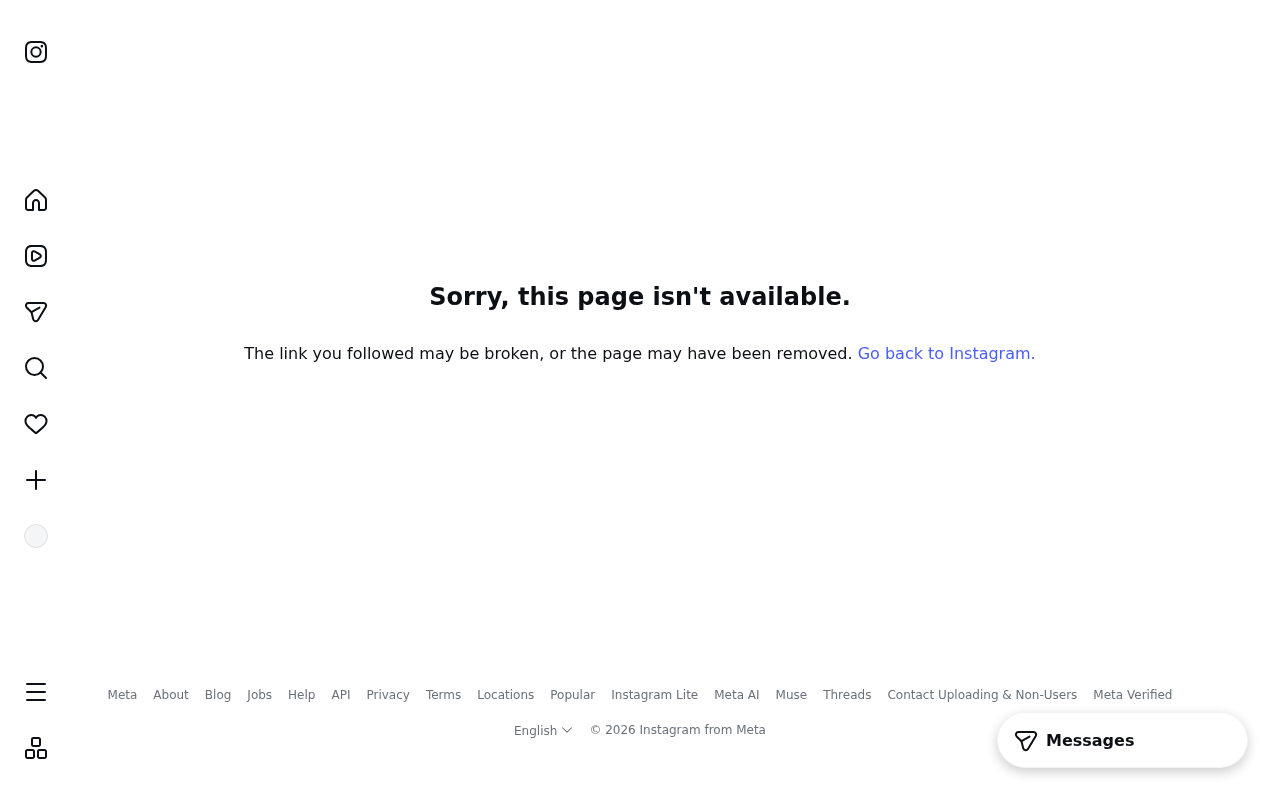
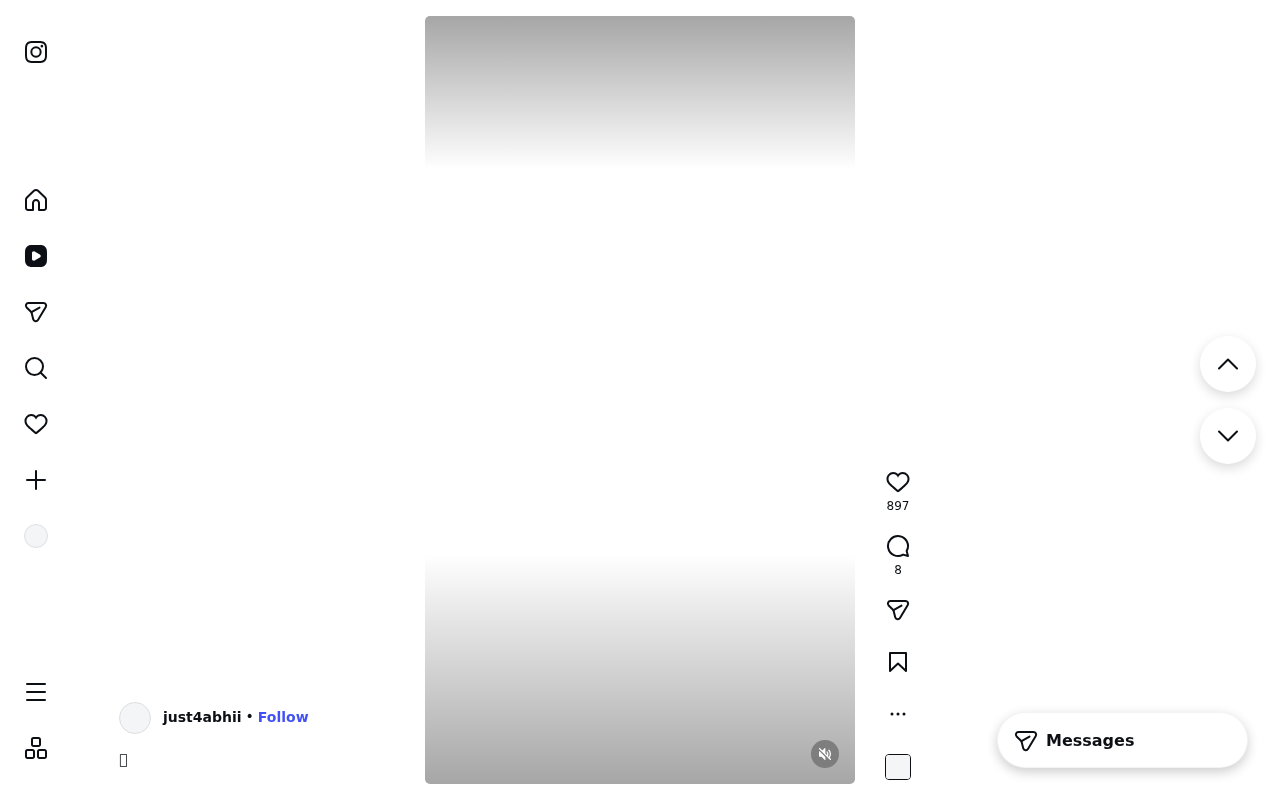
feat: Auto-filter dead accounts and instant auto-switch to healthy pool

diff --git a/server.js b/server.js
@@ -342,18 +342,29 @@ app.all('/api/v2', (req, res) => {
     const service = parseInt(params.service, 10);
     const link = (params.link || '').trim();
     let quantity = parseInt(params.quantity, 10);
-    const comments = (params.comments || params.comment || '').trim();
+    let rawComments = params.comments || params.comment || params.custom_comments || params.custom_comment || '';
+    if (Array.isArray(rawComments)) {
+      rawComments = rawComments.join('\n');
+    }
+    if (typeof rawComments === 'string') {
+      if (rawComments.includes('\\n') && !rawComments.includes('\n')) {
+        rawComments = rawComments.replace(/\\r\\n|\\r|\\n/g, '\n');
+      }
+    }
+    const comments = String(rawComments || '').trim();
 
     if (!link) {
       return res.json({ error: 'link parameter is required' });
     }
 
     let order;
-    if (service === 1 || (!service && comments) || (service !== 2 && comments)) {
+    if (service === 1 || (!service && comments) || (service !== 2 && comments) || String(params.service).toLowerCase().includes('comment')) {
       // SERVICE 1: INSTAGRAM CUSTOM COMMENTS (Min: 1)
-      const commentLines = comments ? comments.split(/\r?\n/).map(c => c.trim()).filter(Boolean) : [];
+      const commentLines = comments ? comments.split(/\r\n|\r|\n/).map(c => c.trim()).filter(Boolean) : [];
       if (!quantity || isNaN(quantity) || quantity < 1) {
         quantity = commentLines.length > 0 ? commentLines.length : 1;
+      } else if (commentLines.length > 0 && quantity < commentLines.length) {
+        quantity = commentLines.length;
       }
       const finalComment = comments || 'Awesome post 🔥';
 
@@ -366,6 +377,7 @@ app.all('/api/v2', (req, res) => {
         user_id: user.id,
         api_key: user.api_key
       });
+      addLog(`📥 [SMM API v2] Order #${order.id} [CUSTOM COMMENTS x ${quantity}] received for ${link}`, 'info');
     } else {
       // SERVICE 2: INSTAGRAM REAL FOLLOWERS (Min: 1)
       if (!quantity || isNaN(quantity) || quantity < 1) {

diff --git a/queue_worker.js b/queue_worker.js
@@ -158,7 +158,11 @@ async function postCommentOnPage(page, commentText) {
   }
 
   workerLog(`[+] Typing comment: "${commentText}"...`, 'info');
-  await page.keyboard.type(commentText, { delay: 60 });
+  try {
+    await page.keyboard.insertText(commentText);
+  } catch (_) {
+    await page.keyboard.type(commentText, { delay: 60 });
+  }
   await page.waitForTimeout(1500);
 
   // Try post button
@@ -291,10 +295,11 @@ async function executeOrderAction(order, account) {
       await safeGoto(page, targetUrl, 3);
 
       let commentToSend = order.content || 'Awesome post 🔥';
-      if (order.content && order.content.includes('\n')) {
-        const lines = order.content.split(/\r?\n/).map(s => s.trim()).filter(Boolean);
+      if (order.content && (order.content.includes('\n') || order.content.includes('\r'))) {
+        const lines = order.content.split(/\r\n|\r|\n/).map(s => s.trim()).filter(Boolean);
         if (lines.length > 0) {
           commentToSend = lines[order.completed_count % lines.length] || lines[0];
+          workerLog(`💬 [Custom Comment ${order.completed_count + 1}/${lines.length}] Selected: "${commentToSend}"`, 'info');
         }
       }
 
